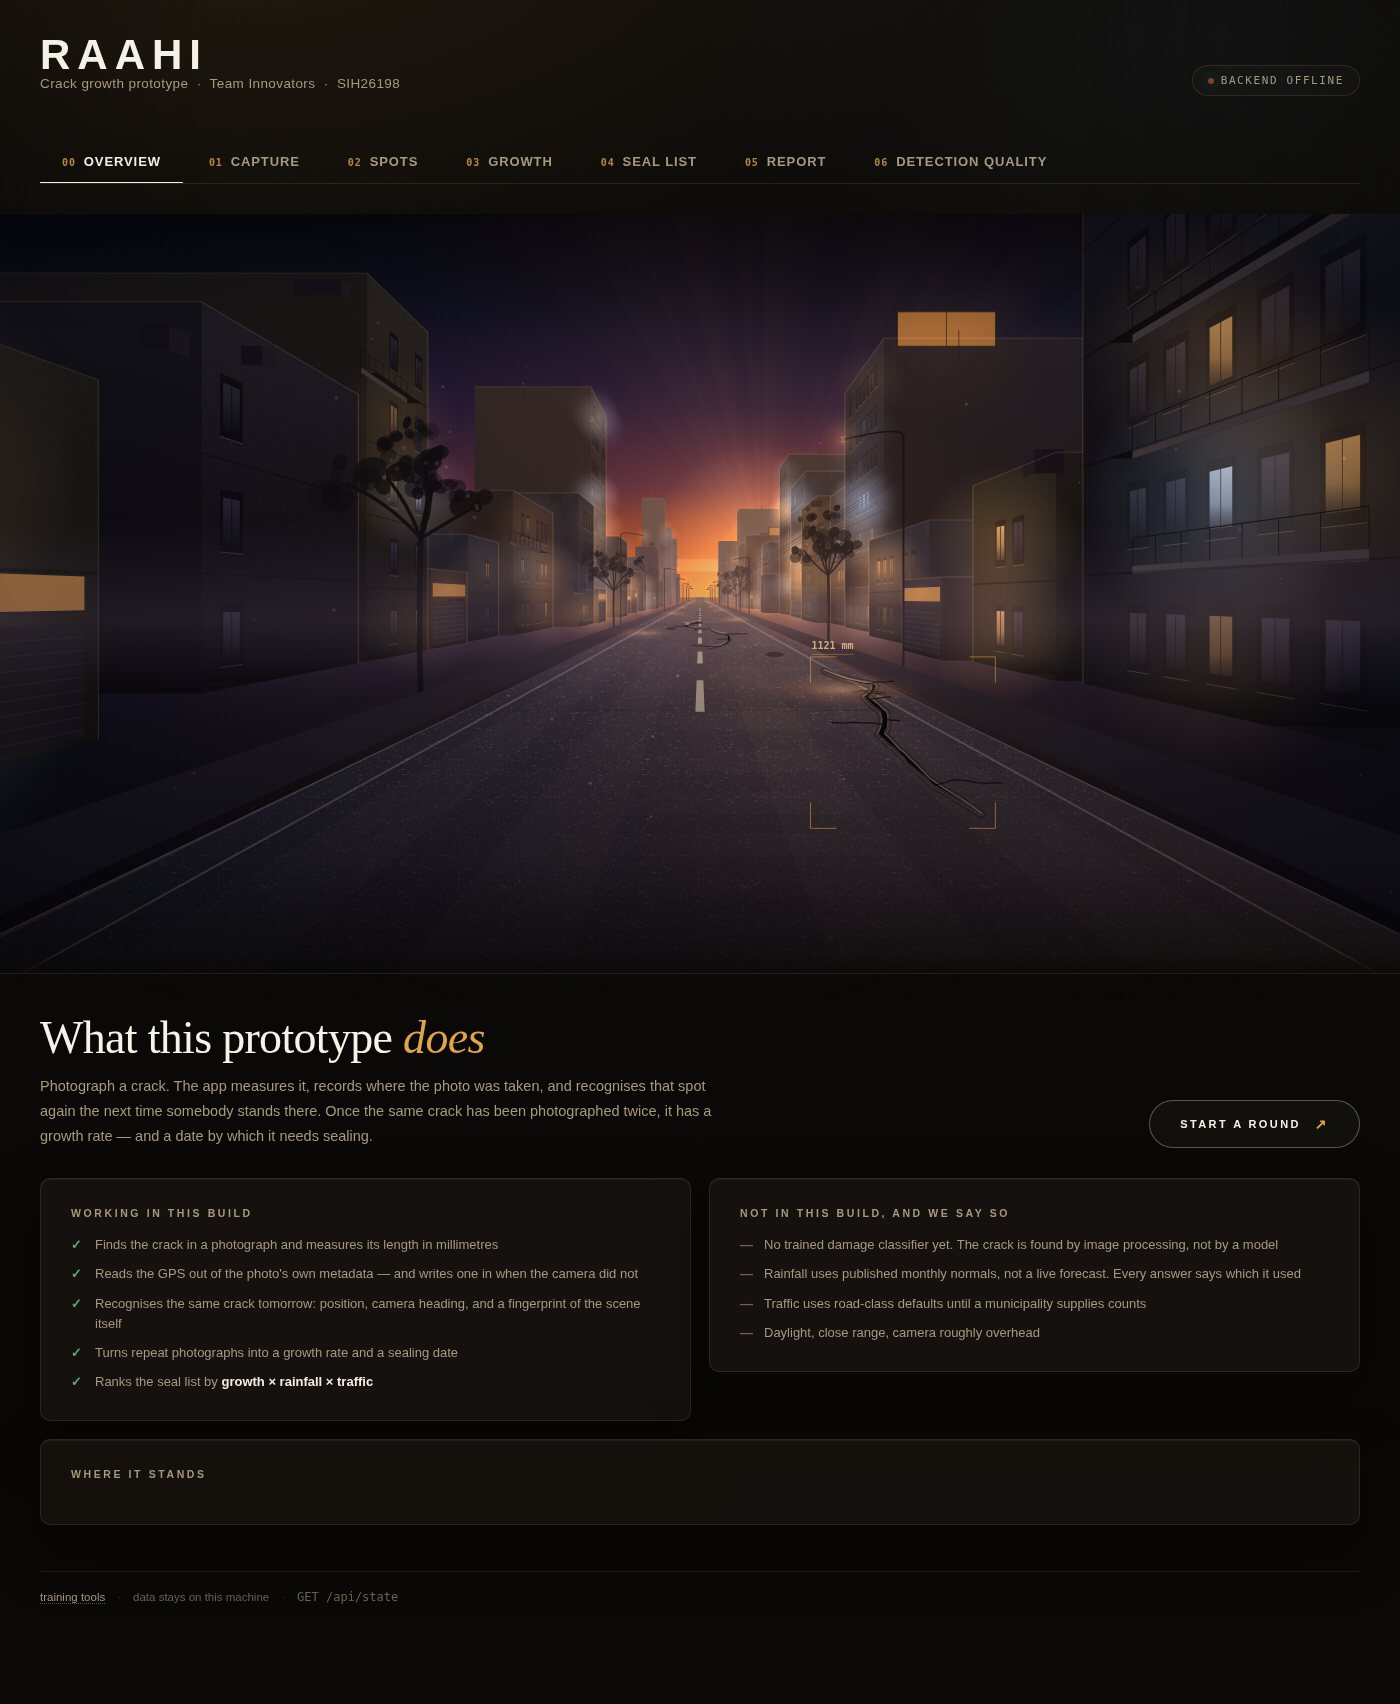
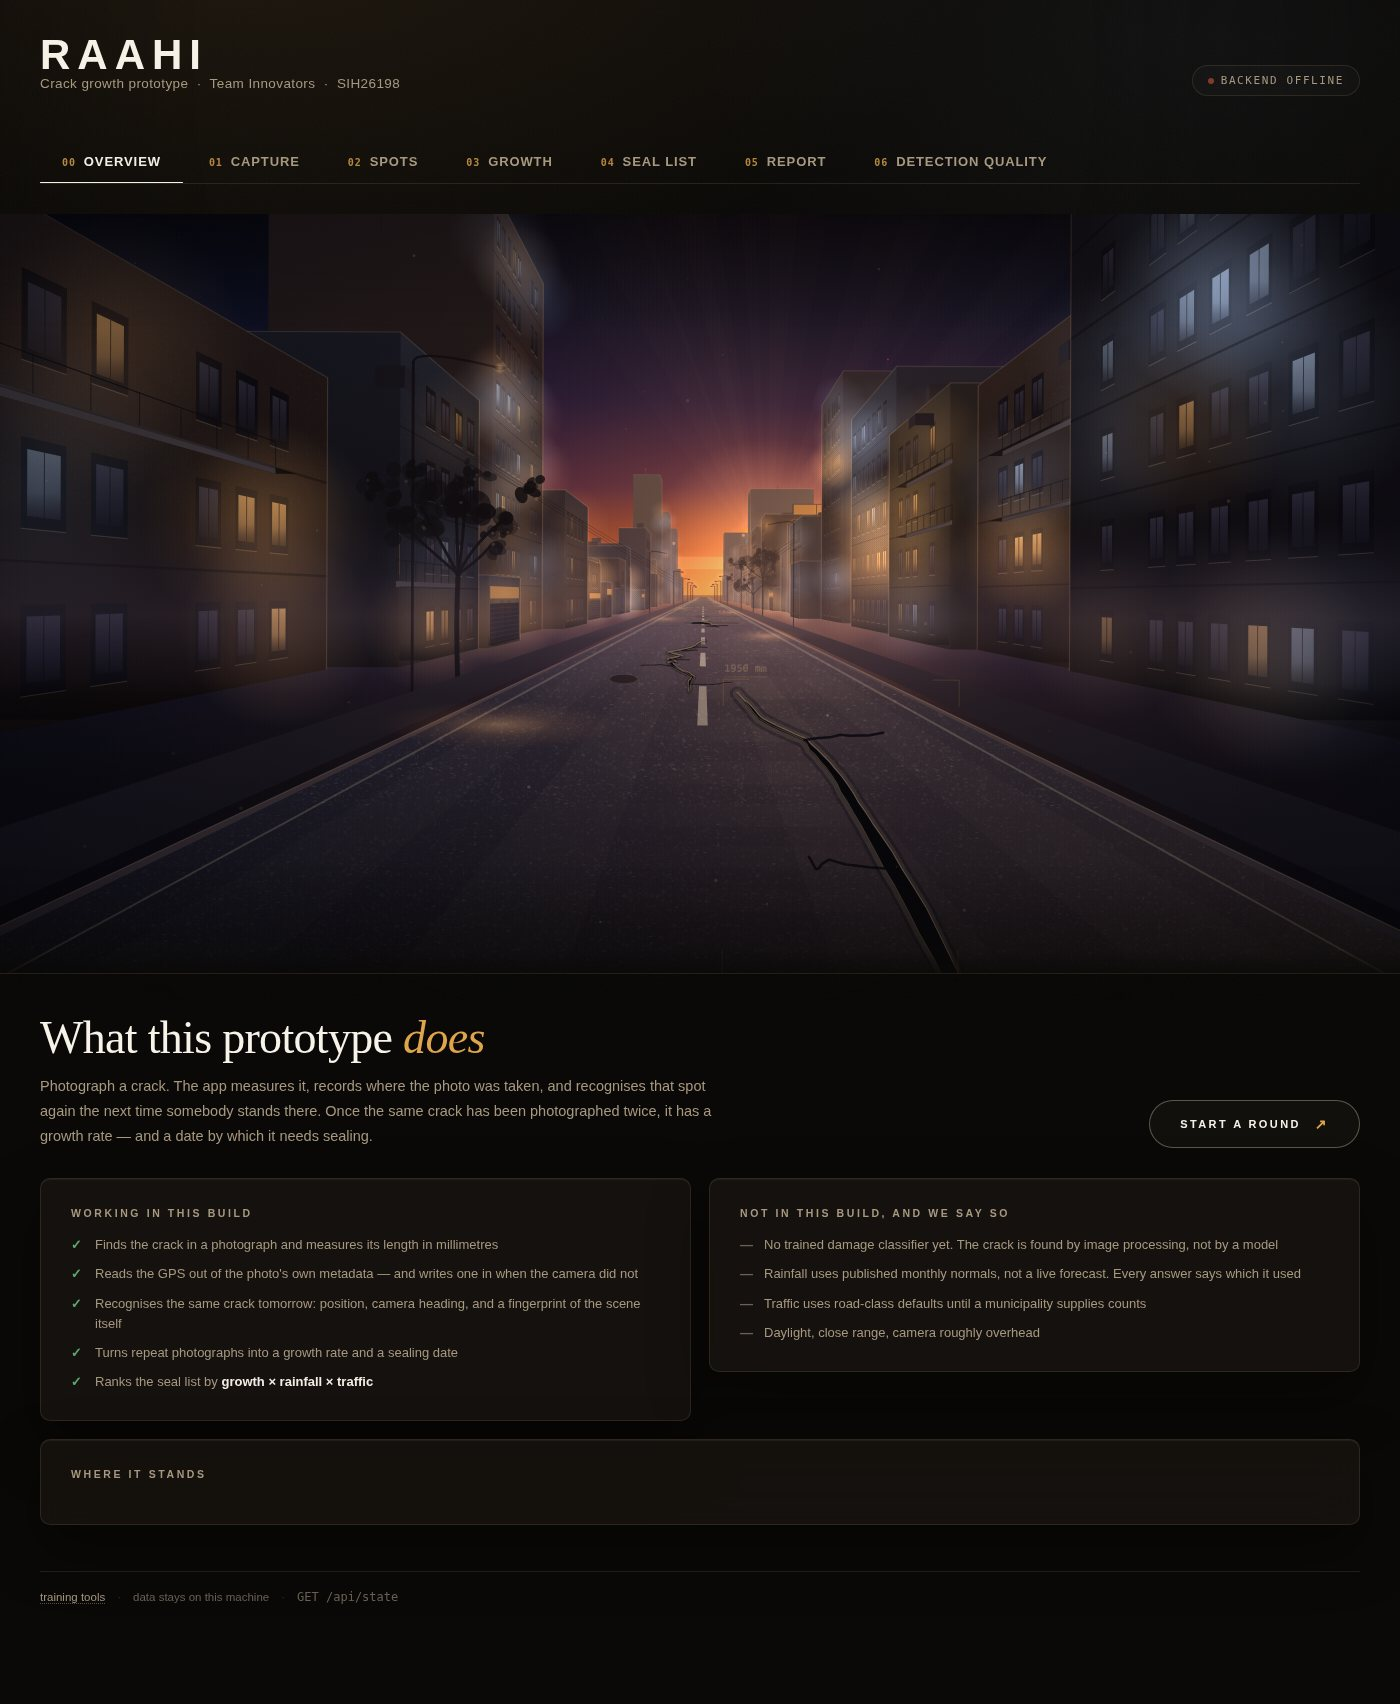
Put the photographs in the repository, and lead the README with the street
Two things a person cloning this had to do before they could see anything:
generate the demo photographs, and take on faith that the opening frame was
worth looking at. Both are now handled by the repository itself.

THE PHOTOGRAPHS

docs/photographs/ holds the eighteen-day round — one crack, one photograph a
morning, each carrying real EXIF: position, heading, capture time, focal
length. Clone, run, choose all eighteen, open GROWTH.

    lat 28.61396119  lon 77.20904328  heading 93.53 deg T
    taken 2026-08-28T06:43:00  focal 80 mm equivalent  accuracy +/- 4.5 m

These are input, not results, and the distinction is the whole point. The
SQLite file stays out of version control — ship a filled database and a fresh
clone would show eighteen readings before anyone had uploaded anything, which
would quietly make the central claim false. Shipping the photographs does the
opposite: it means anyone can produce the numbers for themselves rather than
believe the ones on the page. `python3 raahi.py demo` still writes a fresh set.

THE README

It now opens on the street rather than on a chart, because that is what the
app opens on, and a judge reading the first screen should see the thing they
will be shown. The hero section is rewritten for what the scene actually is
now: one projection, forward motion as a single number, and a camera on a
vehicle rather than a tripod — with the measured parallax figures, since the
[…]

diff --git a/README.md b/README.md
@@ -16,6 +16,12 @@ says *this one, by Friday*.
 successive mornings, measures how much the crack grew between visits, and turns
 the growth rate into a sealing date.
 
+![The street the app opens on, drawn in code, with a crack measured as it passes](docs/screenshots/00-street.jpg)
+
+*The first thing the app shows you is the view from the windscreen. Nothing in
+that frame is a photograph or a video — it is drawn, frame by frame, from the
+same geometry the rest of the app uses.*
+
 ![Day one against day eighteen, with the verdict above it](docs/screenshots/03-growth.jpg)
 
 ---
@@ -31,6 +37,9 @@ python3 raahi.py          # opens the app in your browser
 
 On the **CAPTURE** tab press *Choose photos*, select all eighteen, and watch them
 go in. Then open **GROWTH**.
+
+The eighteen are also committed, in [`docs/photographs/`](docs/photographs/), so
+a fresh clone has something to upload without generating anything first.
 
 The app has no idea those photographs are synthetic. It reads their GPS, works
 out on its own that they are the same crack, measures each one, and builds
@@ -233,13 +242,42 @@ ready — there is the [technical defence](docs/defence/RAAHI-Technical-Defence.
 | **05 Report** | One crack end to end: detect, track, predict, schedule, verify |
 | **06 Detection quality** | Deliberately empty, and it explains why |
 
-The overview opens on a street at first light, with cracks that arrive out of
-the distance, open, and pass under the camera. It is not a video and not a
-stock photograph: the whole scene — sky, buildings, trees, lamps, tarmac and
-every crack in it — is about two thousand lines of canvas drawing in
-`web/hero.js`, generated from a fixed seed so it is the same street every
-time. It is there because it is the view from the windscreen of the vehicle
-this is meant to run on.
+### The street it opens on
+
+The overview opens on a city road at first light, moving. Cracks arrive out of
+the distance, open, run past, and are replaced by new ones. It is not a video
+and not a stock photograph — the whole scene is drawn in code, frame by frame,
+in [`web/hero.js`](web/hero.js), from a fixed seed so it is the same street on
+every visit.
+
+It is built on one projection. A point in the world is three numbers — sideways,
+upwards, and distance — and it lands on the screen through a single scale
+factor, so a building is four quadrilaterals and nothing needs a matrix.
+Forward motion is one number: everything standing on the ground is stored at a
+fixed distance and drawn relative to how far the camera has travelled, then
+rebuilt far away once it passes. That is what makes the cracks arrive rather
+than scroll.
+
+The camera is on a vehicle, not a tripod, and that turns out to be the whole
+difference between a picture that slides and a space you are moving through:
+
+| | |
+| --- | --- |
+| **bob** | the body rises and falls on its springs. The horizon is at infinity, so this does not move it — it makes the ground fall away faster |
+| **pitch** | the nose lifts and drops. This *does* move the horizon, because the horizon depends on where the camera points, not where it is |
+| **sway** | the vehicle drifts across its lane, which moves near things a great deal and far things not at all |
+| **yaw** | the driver corrects, taking the vanishing point and the sun with it, since both are at infinity |
+| **roll** | the body leans into the correction |
+
+Measured on the running page: a fixed point on the kerb eight metres ahead
+sweeps 47 px, the same point 165 m ahead sweeps 9 px — and almost all of that
+9 px is yaw, which is a rotation and correctly moves everything equally.
+Roughly fifty to one in translation alone. That gradient is depth, and no
+amount of scrolling a texture produces it.
+
+Why it is there at all: it is the view from the windscreen of the vehicle this
+is meant to run on. Everything else in the app is what happens after that
+camera sees something.
 
 ### Worth demonstrating live
 

diff --git a/docs/README.md b/docs/README.md
@@ -5,11 +5,43 @@ hand, or edited afterwards.
 
 ```
 docs/
+├── photographs/     eighteen geotagged photographs, ready to upload
 ├── screenshots/     the app running, one image per screen
 ├── sample-run/      one crack, eighteen photographs — the input and the output
 ├── walkthrough/     the presentation guide, as a PDF and as a web page
 └── defence/         the technical document: every algorithm and constant, defended
 ```
+
+---
+
+## photographs/
+
+Eighteen photographs of one crack, one a morning, each carrying real EXIF:
+GPS position, camera heading, capture time, focal length. They are the demo
+round, committed so that a fresh clone has something to upload without
+generating anything first.
+
+```
+day01_20260822.png  …  day18_20260908.png      18 files, 7.4 MB
+```
+
+**To use them:** start the app, open **CAPTURE**, press *Choose photos*, select
+all eighteen, and open **GROWTH**. The app is not told they belong together —
+it reads the GPS out of each file, works out on its own that they are the same
+spot, measures each crack, and builds the curve from what it found.
+
+Open any one of them in an EXIF viewer to check the position is really in the
+file and not something the app invented:
+
+```
+lat 28.61396119   lon 77.20904328   heading 93.53°T
+taken 2026-08-28T06:43:00   focal length 80 mm equivalent   accuracy ±4.5 m
+```
+
+`python3 raahi.py demo` writes an identical set into `demo_photos/` whenever
+you want a fresh one — the dates end on the day you run it, so a set generated
+in January will score differently from this one, correctly, because there is no
+monsoon coming to get into the crack.
 
 ---
 
@@ -20,7 +52,7 @@ Taken from a live browser against a real server, on the eighteen-day demo round.
 | file | what it shows |
 | --- | --- |
 | `00-overview.jpg` | What the build does, and the four limits it states up front |
-| `00-street.jpg` | The opening frame: a city street at dawn, drawn in code, with cracks that open and run past |
+| `00-street.jpg` | The opening frame: a moving city street at dawn, drawn in code, with a crack measured as it passes |
 | `01-capture-batch.jpg` | Eighteen photographs uploading in order, with the GPS panel filled in |
 | `01-gps-from-a-phone.jpg` | A phone photograph's own EXIF, read out in full |
 | `01-gallery.jpg` | Every photograph in the record, each removable on its own |
@@ -123,6 +155,8 @@ filled database in the repository and a fresh clone would show eighteen
 readings before anyone had uploaded anything — which would quietly make the
 claim false, and a judge who cloned the repo would find that out.
 
-The demo photographs are generated on demand by `python3 raahi.py demo`, so
-they are not committed either. Three of them are here as samples, which is
-enough to inspect the EXIF without carrying all eighteen in version control.
+The photographs themselves are a different matter and **are** committed, in
+`photographs/`. They are *input*, not results: having them in the repository
+means anyone can clone it and produce the numbers on this page for themselves,
+which is the opposite of preloading. `python3 raahi.py demo` still writes a
+fresh set whenever you want one.
